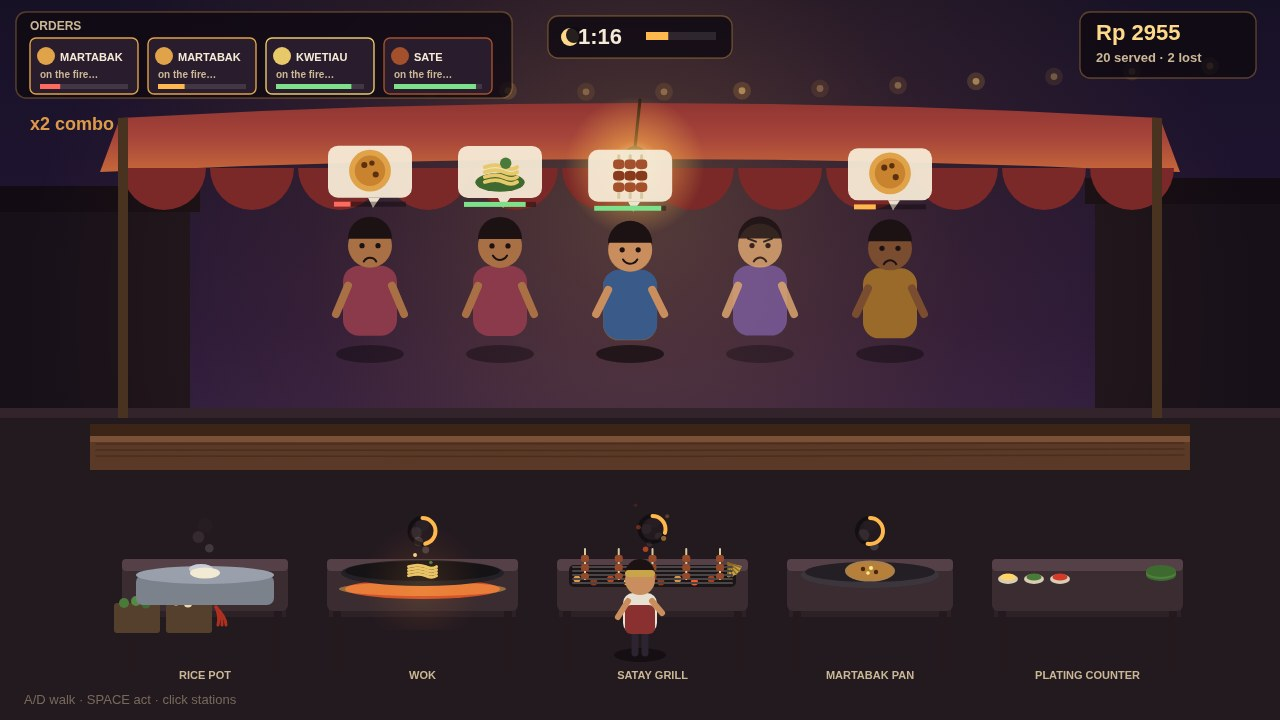
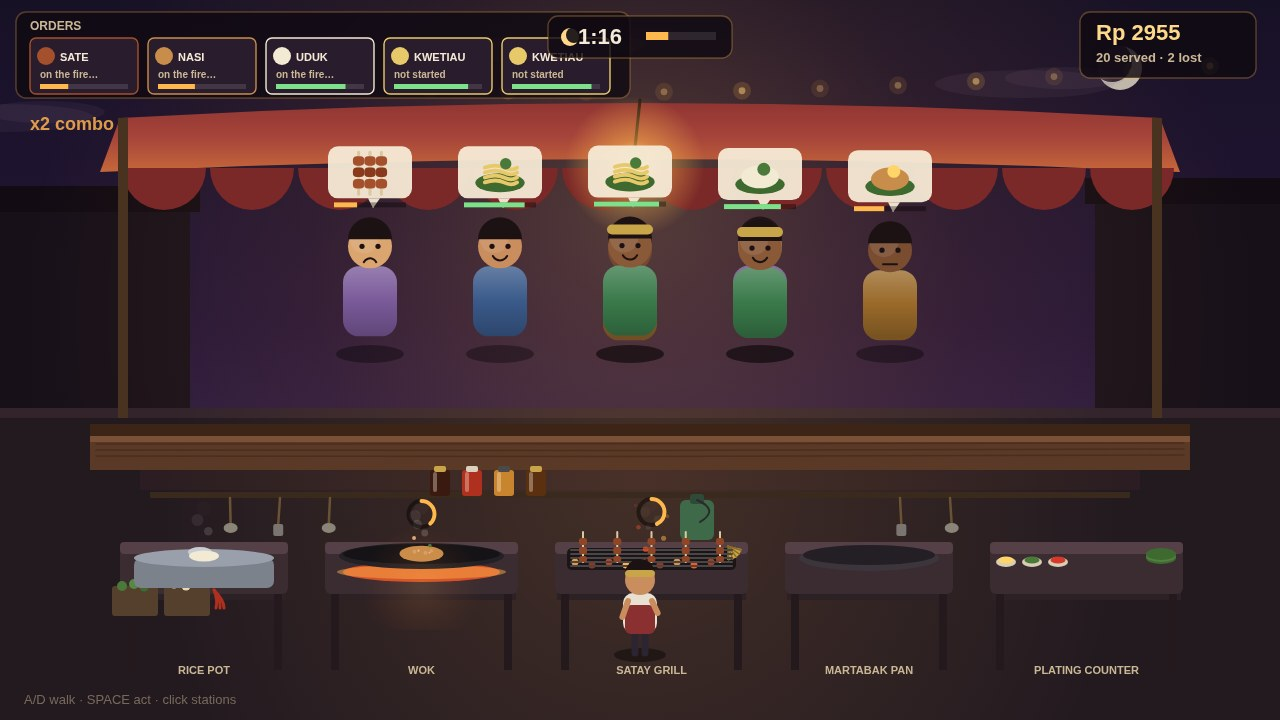
Atmosphere, kitchen clutter, craft pass: volume, gloss, moon, clouds

diff --git a/game/src/render.js b/game/src/render.js
@@ -85,6 +85,25 @@ export function createRenderer(canvas) {
     ctx.fillStyle = g;
     ctx.fillRect(0, 0, VIEW.width, VIEW.height);
 
+    // a pale crescent moon high over the market
+    ctx.save();
+    ctx.globalAlpha = 0.8;
+    circle(1120, 68, 22, '#e8e2d0');
+    ctx.globalAlpha = 0.9;
+    ctx.fillStyle = COLOR.sky0;
+    ctx.beginPath(); ctx.arc(1112, 62, 20, 0, Math.PI * 2); ctx.fill();
+    ctx.restore();
+    // faint drifting clouds, lit faintly warm from the market below
+    ctx.save();
+    for (let i = 0; i < 3; i++) {
+      const cx = ((world.time * 4 + i * 480) % 1500) - 110;
+      const cy = 50 + i * 34;
+      ctx.globalAlpha = 0.1;
+      ellipse(cx, cy, 90, 14, '#8a6a8a');
+      ellipse(cx + 40, cy - 6, 60, 11, '#8a6a8a');
+    }
+    ctx.restore();
+
     // string lights sagging across the top
     ctx.save();
     for (let i = 0; i < 16; i++) {
@@ -118,6 +137,18 @@ export function createRenderer(canvas) {
     ctx.fillRect(0, 408, VIEW.width, VIEW.height - 408);
     ctx.fillStyle = COLOR.groundHi;
     ctx.fillRect(0, 408, VIEW.width, 10);
+    // warm lamplight pooling on the street before the stall, and a faint sheen
+    const pool = ctx.createRadialGradient(640, 470, 20, 640, 520, 480);
+    pool.addColorStop(0, 'rgba(255,170,80,0.14)');
+    pool.addColorStop(1, 'rgba(255,170,80,0)');
+    ctx.fillStyle = pool;
+    ctx.fillRect(0, 408, VIEW.width, VIEW.height - 408);
+    // the street's faint reflection of the awning's warm stripe
+    ctx.save();
+    ctx.globalAlpha = 0.05;
+    ctx.fillStyle = '#c96a3a';
+    ctx.fillRect(140, 430, 1000, 60);
+    ctx.restore();
   }
 
   // ---------- stall structure ----------
@@ -259,10 +290,20 @@ export function createRenderer(canvas) {
     ctx.globalAlpha = c.left && c.angry ? 0.85 : 1;
 
     ellipse(x, y + 118, 34, 9, 'rgba(0,0,0,0.35)');
-    ctx.fillStyle = SHIRT[c.variant];
+    // torso with a little volume — lit warm from the lamp above, darker at the hem
+    const shirtGrad = ctx.createLinearGradient(x, y + 32 + bob, x, y + 100);
+    shirtGrad.addColorStop(0, shade(SHIRT[c.variant], 22));
+    shirtGrad.addColorStop(0.5, SHIRT[c.variant]);
+    shirtGrad.addColorStop(1, shade(SHIRT[c.variant], -22));
+    ctx.fillStyle = shirtGrad;
     rr(x - 27, y + 32 + bob, 54, 70, 16);
     ctx.fill();
+    // skin with a warm rim on the lamp side
     circle(x, y + 12 + bob, 22, SKIN[c.variant]);
+    ctx.save();
+    ctx.globalAlpha = 0.3;
+    circle(x - 6, y + 5 + bob, 14, shade(SKIN[c.variant], 30));
+    ctx.restore();
     ctx.fillStyle = '#1c1214';
     ctx.beginPath();
     ctx.arc(x, y + 5 + bob, 22, Math.PI, Math.PI * 2);
@@ -466,6 +507,14 @@ export function createRenderer(canvas) {
       circle(cx - 7, cy - toss, 2, ctx.fillStyle);
       circle(cx + 4, cy + 1 - toss, 2, ctx.fillStyle);
       circle(cx + 10, cy - 1 - toss, 1.8, ctx.fillStyle);
+      // the gloss of hot oil — a couple of bright specks that say fresh off the fire
+      if (!item.burned) {
+        ctx.save();
+        ctx.globalAlpha = 0.55;
+        circle(cx - 3, cy - 1 - toss, 1.1, '#ffeedd');
+        circle(cx + 8, cy + 1 - toss, 0.9, '#ffe8cc');
+        ctx.restore();
+      }
     }
     if (tossing) {
       const t = world.time * 9;
@@ -726,6 +775,51 @@ export function createRenderer(canvas) {
     }
   }
 
+
+  // the clutter of a working stall in the band behind the cook: hanging tools, sauce jars,
+  // the gas canister — fills the wall and tells you a real kitchen runs here
+  function drawKitchenClutter(world) {
+    // a bamboo shelf rail along the back wall
+    ctx.fillStyle = '#3a2a1e';
+    ctx.fillRect(150, 492, 980, 6);
+    // hanging ladles + a spatula + the wok ladle, swaying slightly
+    const tools = [230, 280, 330, 900, 950];
+    tools.forEach((tx, i) => {
+      const sway = Math.sin(world.time * 0.9 + i * 1.4) * 2;
+      ctx.strokeStyle = '#6a5335';
+      ctx.lineWidth = 2.5;
+      ctx.beginPath(); ctx.moveTo(tx, 498); ctx.lineTo(tx + sway, 524); ctx.stroke();
+      if (i % 2 === 0) {
+        // ladle cup
+        ellipse(tx + sway, 528, 7, 5, '#8a8578');
+      } else {
+        // spatula blade
+        fillRR(tx + sway - 5, 524, 10, 12, 2, '#7a7570');
+      }
+    });
+    // sauce jars on the shelf: kecap manis, sambal, oil — little labeled bottles
+    const jars = [
+      { x: 430, color: '#3a1a10', cap: '#c9a54a' },  // kecap
+      { x: 462, color: '#b03020', cap: '#d9d0c0' },  // sambal
+      { x: 494, color: '#c9852e', cap: '#4a4a4a' },  // oil
+      { x: 526, color: '#5a3010', cap: '#c9a54a' },  // soy
+    ];
+    for (const j of jars) {
+      fillRR(j.x, 470, 20, 26, 3, j.color);
+      fillRR(j.x + 4, 466, 12, 6, 2, j.cap);
+      ctx.save();
+      ctx.globalAlpha = 0.35;
+      fillRR(j.x + 3, 472, 4, 20, 2, '#ffeedd');
+      ctx.restore();
+    }
+    // the green gas canister under the shelf, feeding the burners
+    fillRR(680, 500, 34, 40, 6, '#3f6a4a');
+    fillRR(690, 494, 14, 10, 3, '#2f4a38');
+    ctx.strokeStyle = '#2a2a2a';
+    ctx.lineWidth = 2;
+    ctx.beginPath(); ctx.moveTo(697, 500); ctx.quadraticCurveTo(720, 510, 700, 522); ctx.stroke();
+  }
+
   // ---------- the cook ----------
   function drawCook(world) {
     const cook = world.cook;
@@ -838,6 +932,7 @@ export function createRenderer(canvas) {
     drawStall(world);
     drawCustomers(world);
     drawCounter();
+    drawKitchenClutter(world);
     drawStations(world);
     drawCook(world);
     drawJuice(world);

diff --git a/game/src/config.js b/game/src/config.js
@@ -18,11 +18,11 @@ export const LAYOUT = {
   orderBoardX: 24,
   orderBoardY: 18,
   stations: {
-    rice:   { x: 130, y: 545, w: 150, h: 130, label: 'rice pot' },
-    wok:    { x: 335, y: 545, w: 175, h: 130, label: 'wok' },
-    grill:  { x: 565, y: 545, w: 175, h: 130, label: 'satay grill' },
-    batter: { x: 795, y: 545, w: 150, h: 130, label: 'martabak pan' },
-    plate:  { x: 1000, y: 545, w: 175, h: 130, label: 'plating counter' },
+    rice:   { x: 128, y: 528, w: 152, h: 142, label: 'rice pot' },
+    wok:    { x: 333, y: 528, w: 177, h: 142, label: 'wok' },
+    grill:  { x: 563, y: 528, w: 177, h: 142, label: 'satay grill' },
+    batter: { x: 793, y: 528, w: 152, h: 142, label: 'martabak pan' },
+    plate:  { x: 998, y: 528, w: 177, h: 142, label: 'plating counter' },
   },
 };
 

diff --git a/game/src/shots.js b/game/src/shots.js
@@ -23,7 +23,7 @@ function playForward(world, seconds) {
 }
 
 export function stageShot(world, which) {
-  if (which === 'cover') playForward(world, 119);
+  if (which === 'cover') playForward(world, 120.3);
   else if (which === 'rush') playForward(world, 163.7);
   else if (which === 'plate') playForward(world, 120.1);
   else if (which === 'end') playForward(world, 245);
